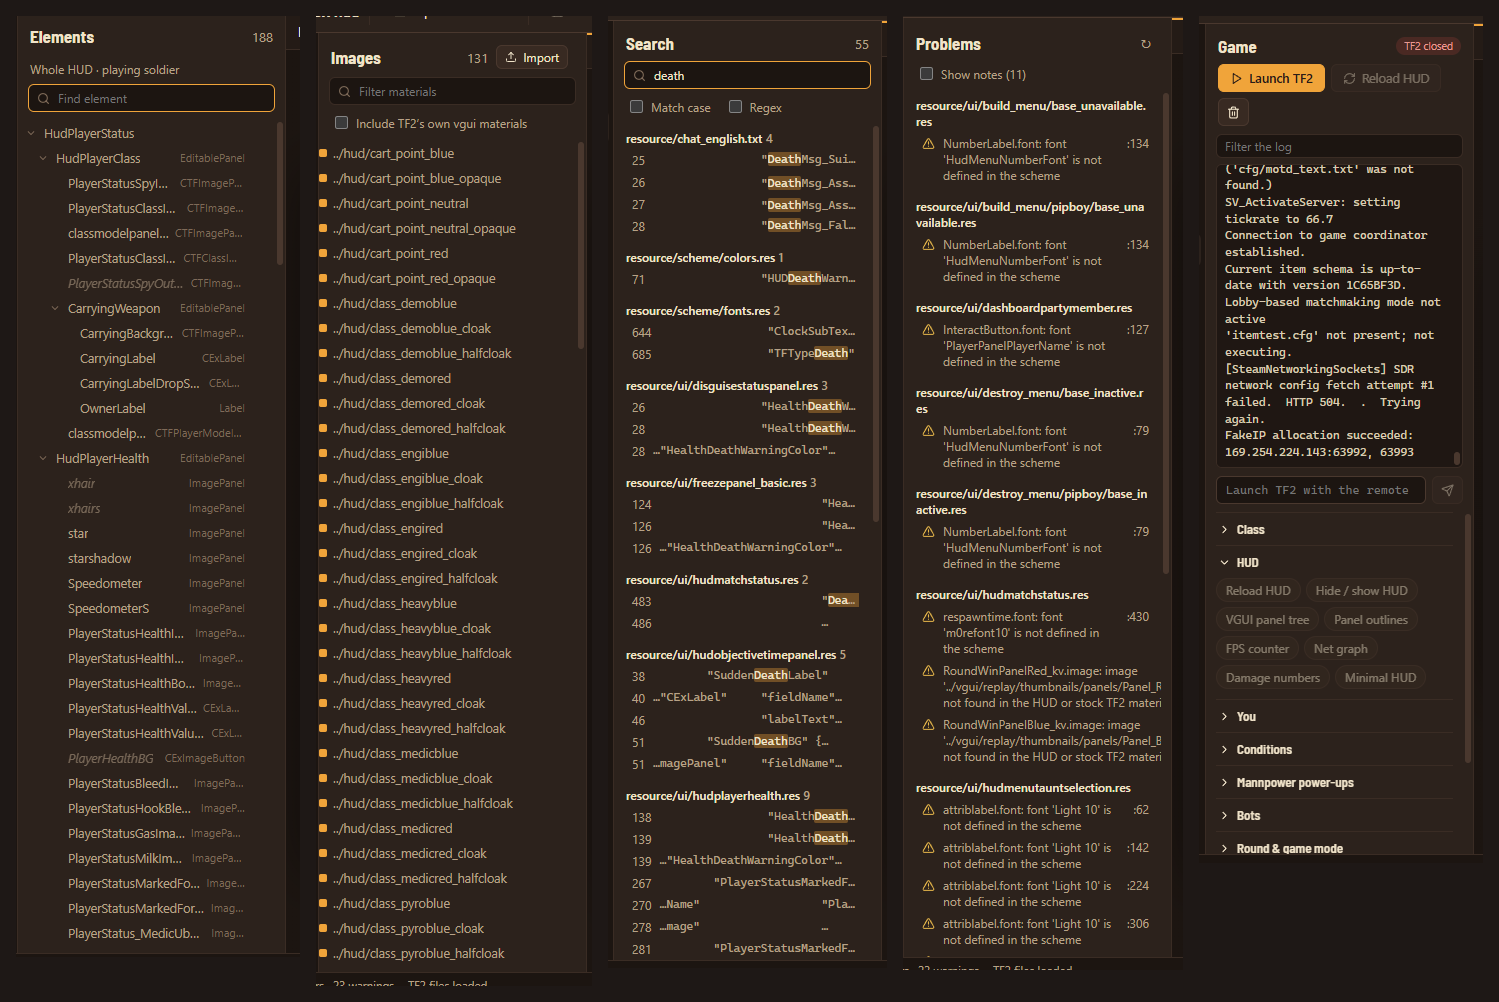
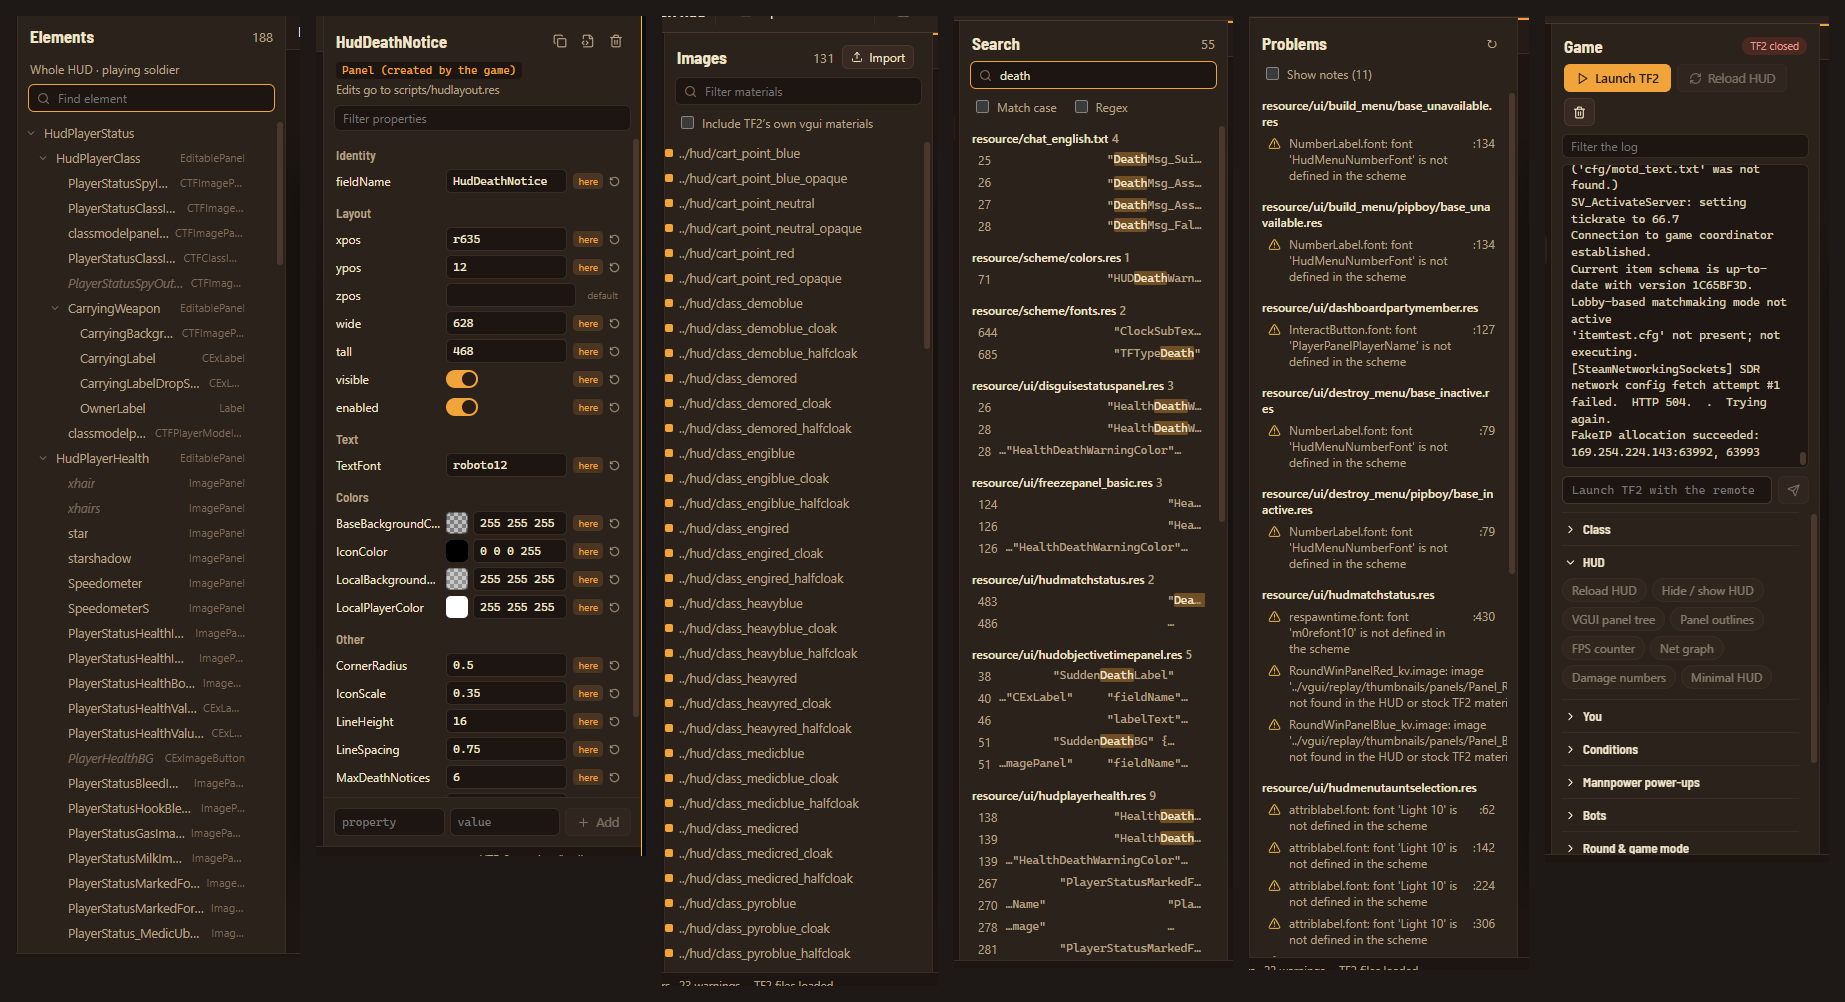
elements panel to the previews
nearly forgot that

Changed region(s): [[0.1534, 0.0309, 1.0, 0.99], [0.0, 0.0309, 0.1534, 0.9591]]

diff --git a/README.md b/README.md
@@ -123,8 +123,8 @@ from. It may be rough, so back up your HUD before you use it.
 | ![Settings: TF2 folder, HUD library and launch options](artwork/screenshots/settings.png) | ![External tools: Crowbar, Blender, VTFEdit, 7-Zip, PeaZip, VTFCmd](artwork/screenshots/tools.png) |
 
 <p align="center">
-  <img src="artwork/screenshots/panels.png" alt="Sidebar panels: Elements, Images, Search, Problems and Game" width="100%">
-  <br><sub>Sidebar panels: Elements, Images, Search, Problems and the Game console with test commands</sub>
+  <img src="artwork/screenshots/panels.png" alt="Panels: Elements, Inspector, Images, Search, Problems and Game" width="100%">
+  <br><sub>Panels: Elements, the Inspector, Images, Search, Problems and the Game console with test commands</sub>
 </p>
 
 ## Getting started
